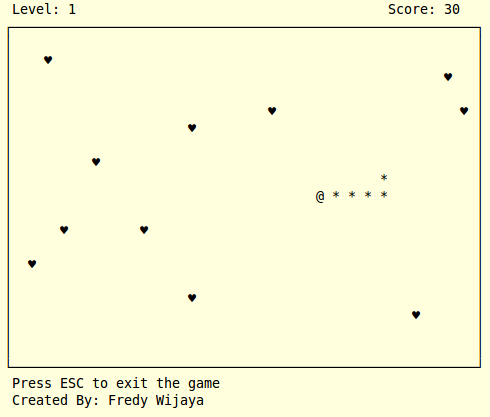
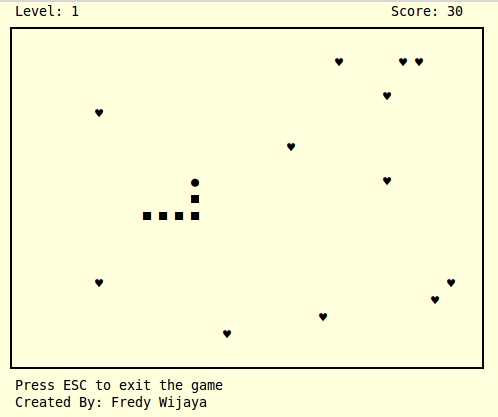
Make the snake prettier

diff --git a/gosnake.go b/gosnake.go
@@ -136,9 +136,9 @@ func drawSnake(snake *snake) {
 	for idx, coordinate := range snake.coordinates {
 		var ch rune
 		if idx == 0 {
-			ch = '@'
+			ch = '\u25CF'
 		} else {
-			ch = '*'
+			ch = '\u2B1B'
 		}
 		termbox.SetCell(coordinate.x, coordinate.y, ch, colorDefault, colorDefault)
 	}
